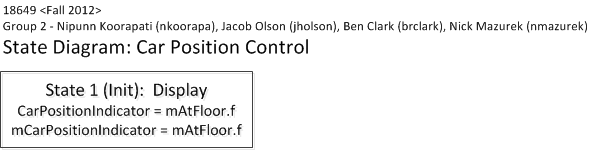
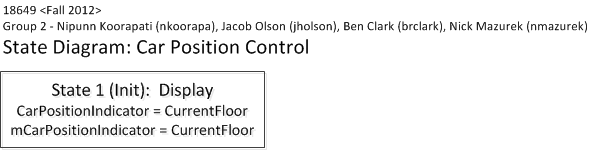
Fixes as suggested by the wonderful wonderful Peer Reviewers Jake and Nick

Changed region(s): [[0.0, 0.4533, 0.4584, 1.0], [0.0611, 0.5333, 0.3667, 0.6667]]

diff --git a/portfolio/reqs/requirements2.html b/portfolio/reqs/requirements2.html
@@ -1923,7 +1923,10 @@ None
 </ul>
 <h3> State: </h3>
 <ul>
-<li>Active (True if light should remain on)</li>
+  <li>Active (True if light should remain on)</li>
+  <li>CurrentFloor, is a shorthand notation for the value of whichever
+  mAtFloor[f, b] is True, if any.&nbsp; If CurrentFloor is invalid it has
+  a mnemonic value of None. </li>
 </ul>
 <h3> CONSTRAINTS: </h3>
 None
@@ -1940,7 +1943,7 @@ None
     <li>8.2.2&nbsp; mHallLight[f,b,d] shall be set to False.</li>
   </ul>
   <li>8.3&nbsp; If HallCall[f,b,d] is Pressed, Active shall be set to True</li>
-  <li>8.4&nbsp; If HallCall[f,b,d] is Idle and mAtFloor[f,b] is equal to
+  <li>8.4&nbsp; If HallCall[f,b,d] is Idle and CurrentFloor is equal to
       mDesiredFloor.f, Active shall be set to False</li>
 </ul>
 
@@ -1967,12 +1970,12 @@ cellspacing="2">
     <tr>
       <td>LT 2</td>
       <td>HallCall[<b>f</b>, <b>b</b>, <b>d</b>] == Idle &amp;&amp;
-          mDesiredFloor.f == mAtFloor[<b>f</b>,<b>b</b>]</td>
+          mDesiredFloor.f == CurrentFloor</td>
     </tr>
     <tr>
       <td>LT 3</td>
       <td>HallCall[<b>f</b>, <b>b</b>, <b>d</b>] == Idle &amp;&amp;
-          mDesiredFloor.f != mAtFloor[<b>f</b>,<b>b</b>]</td>
+          mDesiredFloor.f != Current Floor</td>
     </tr>
   </tbody>
 </table>
